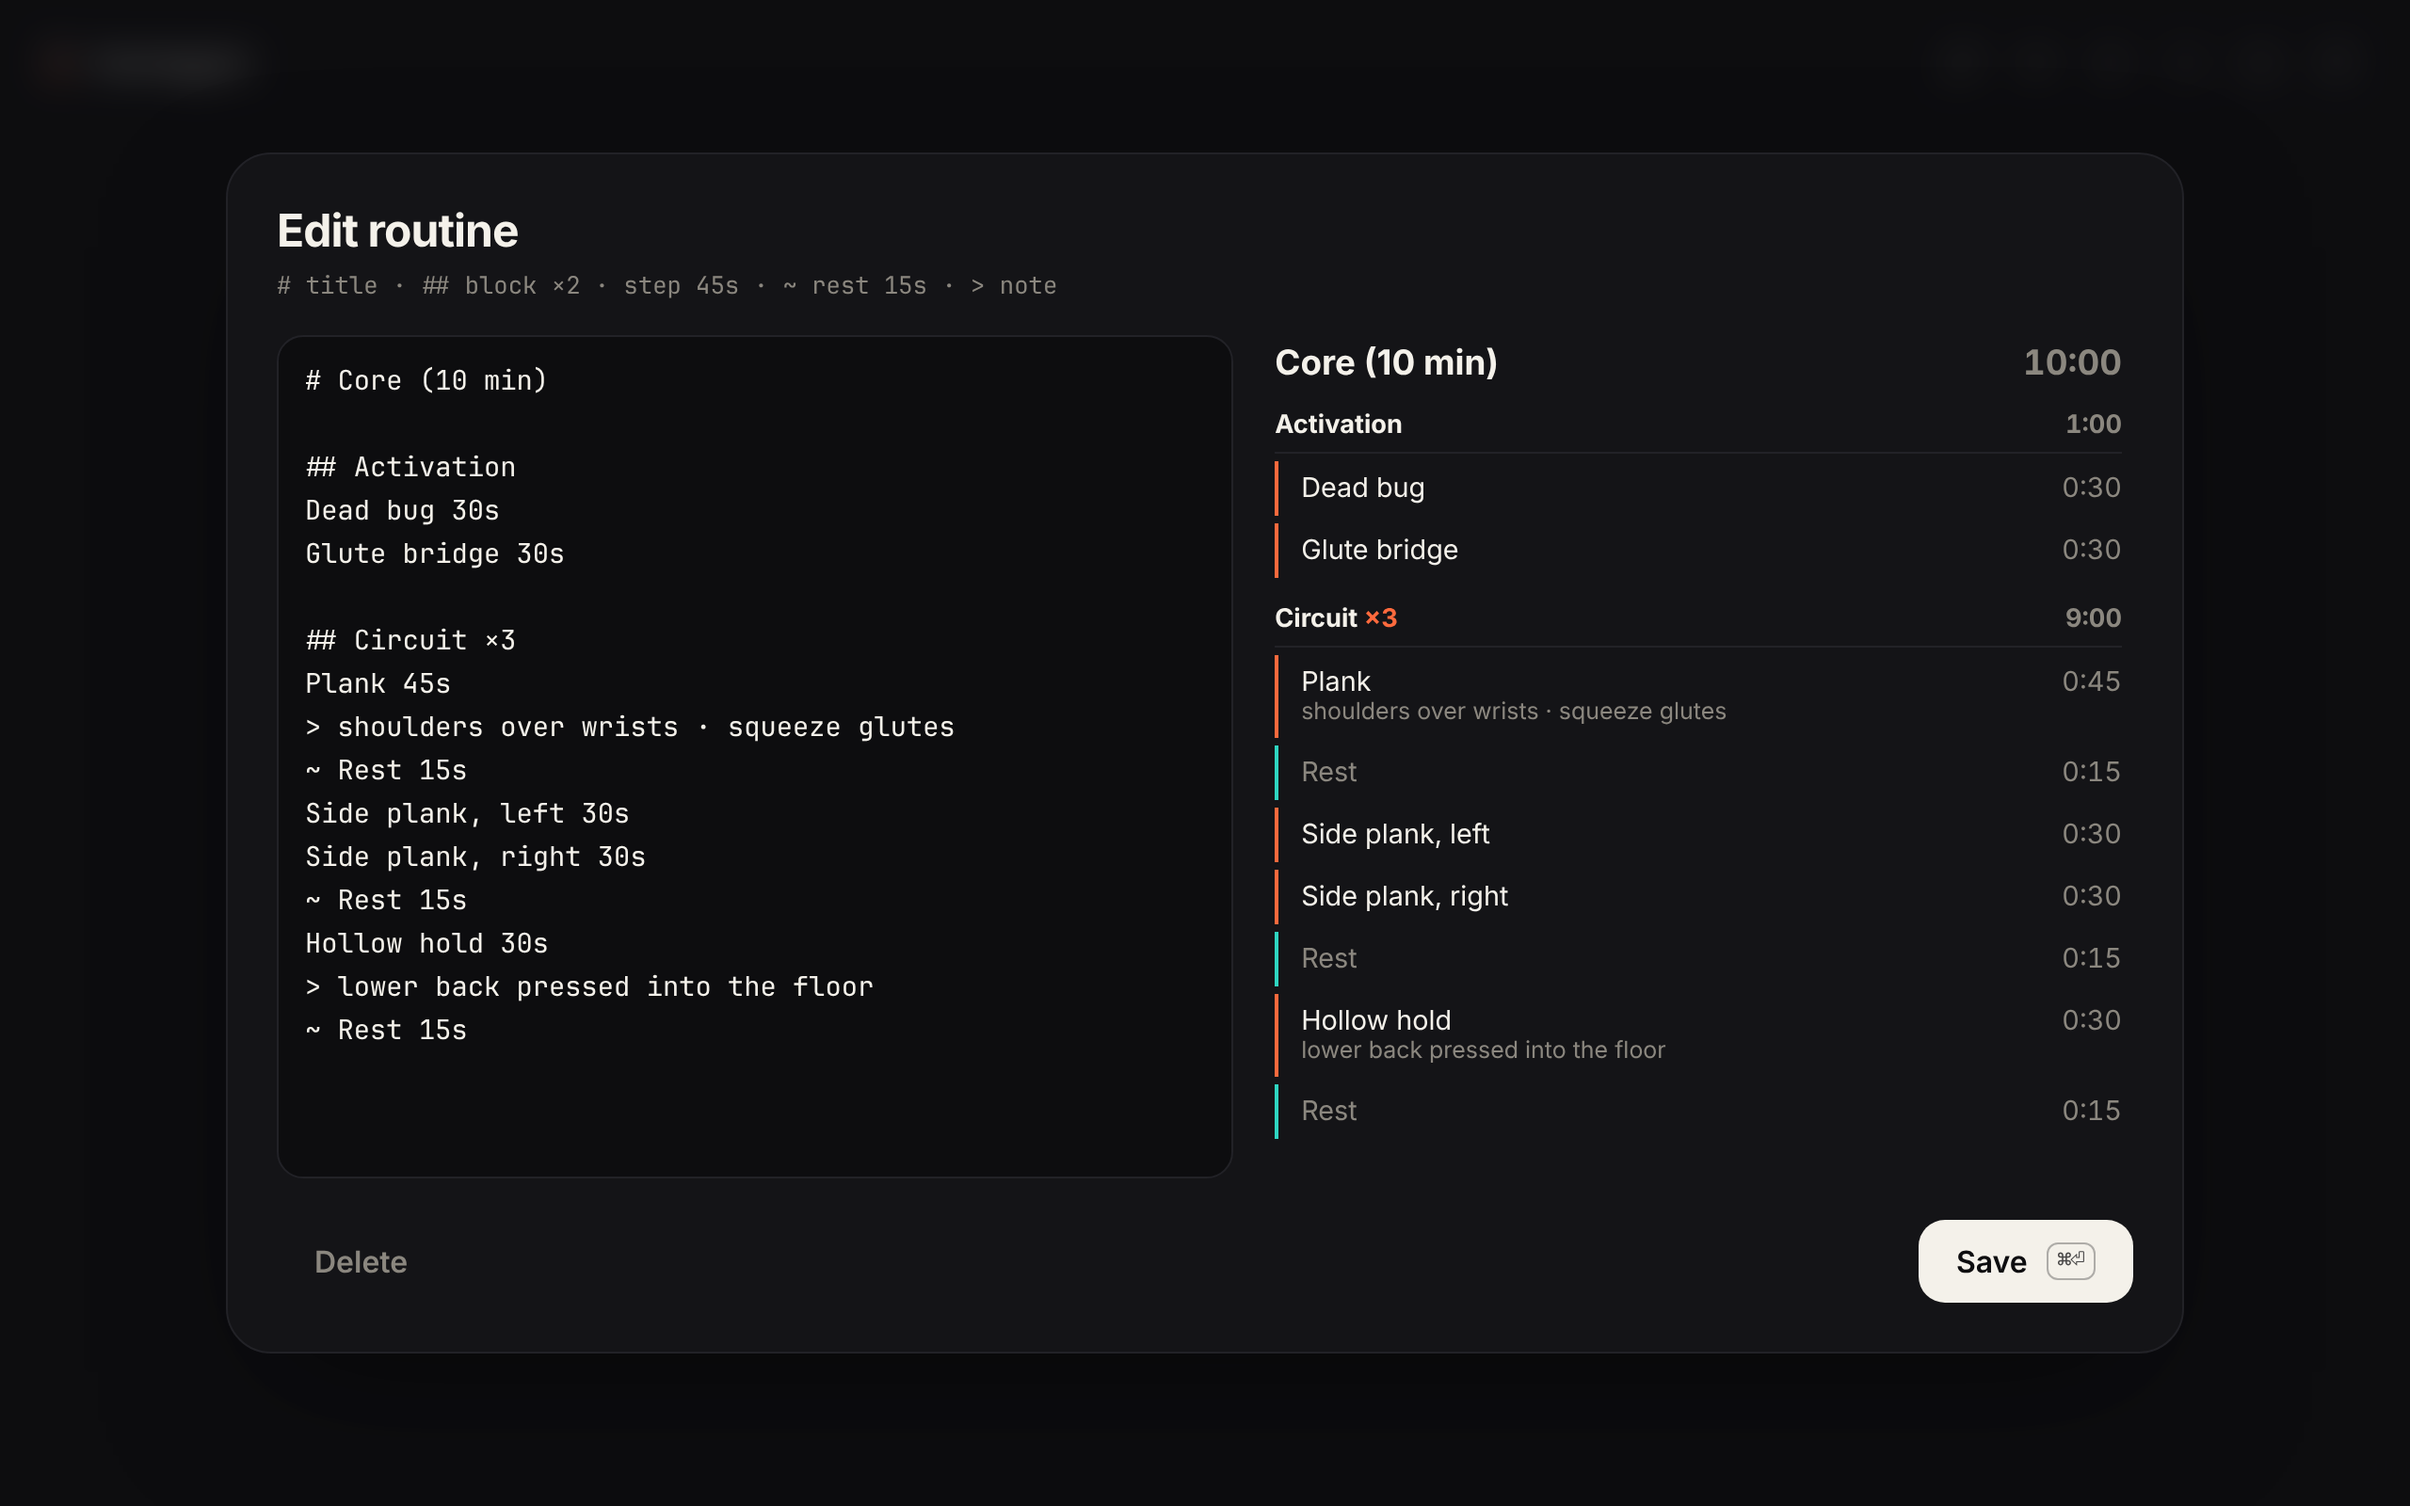
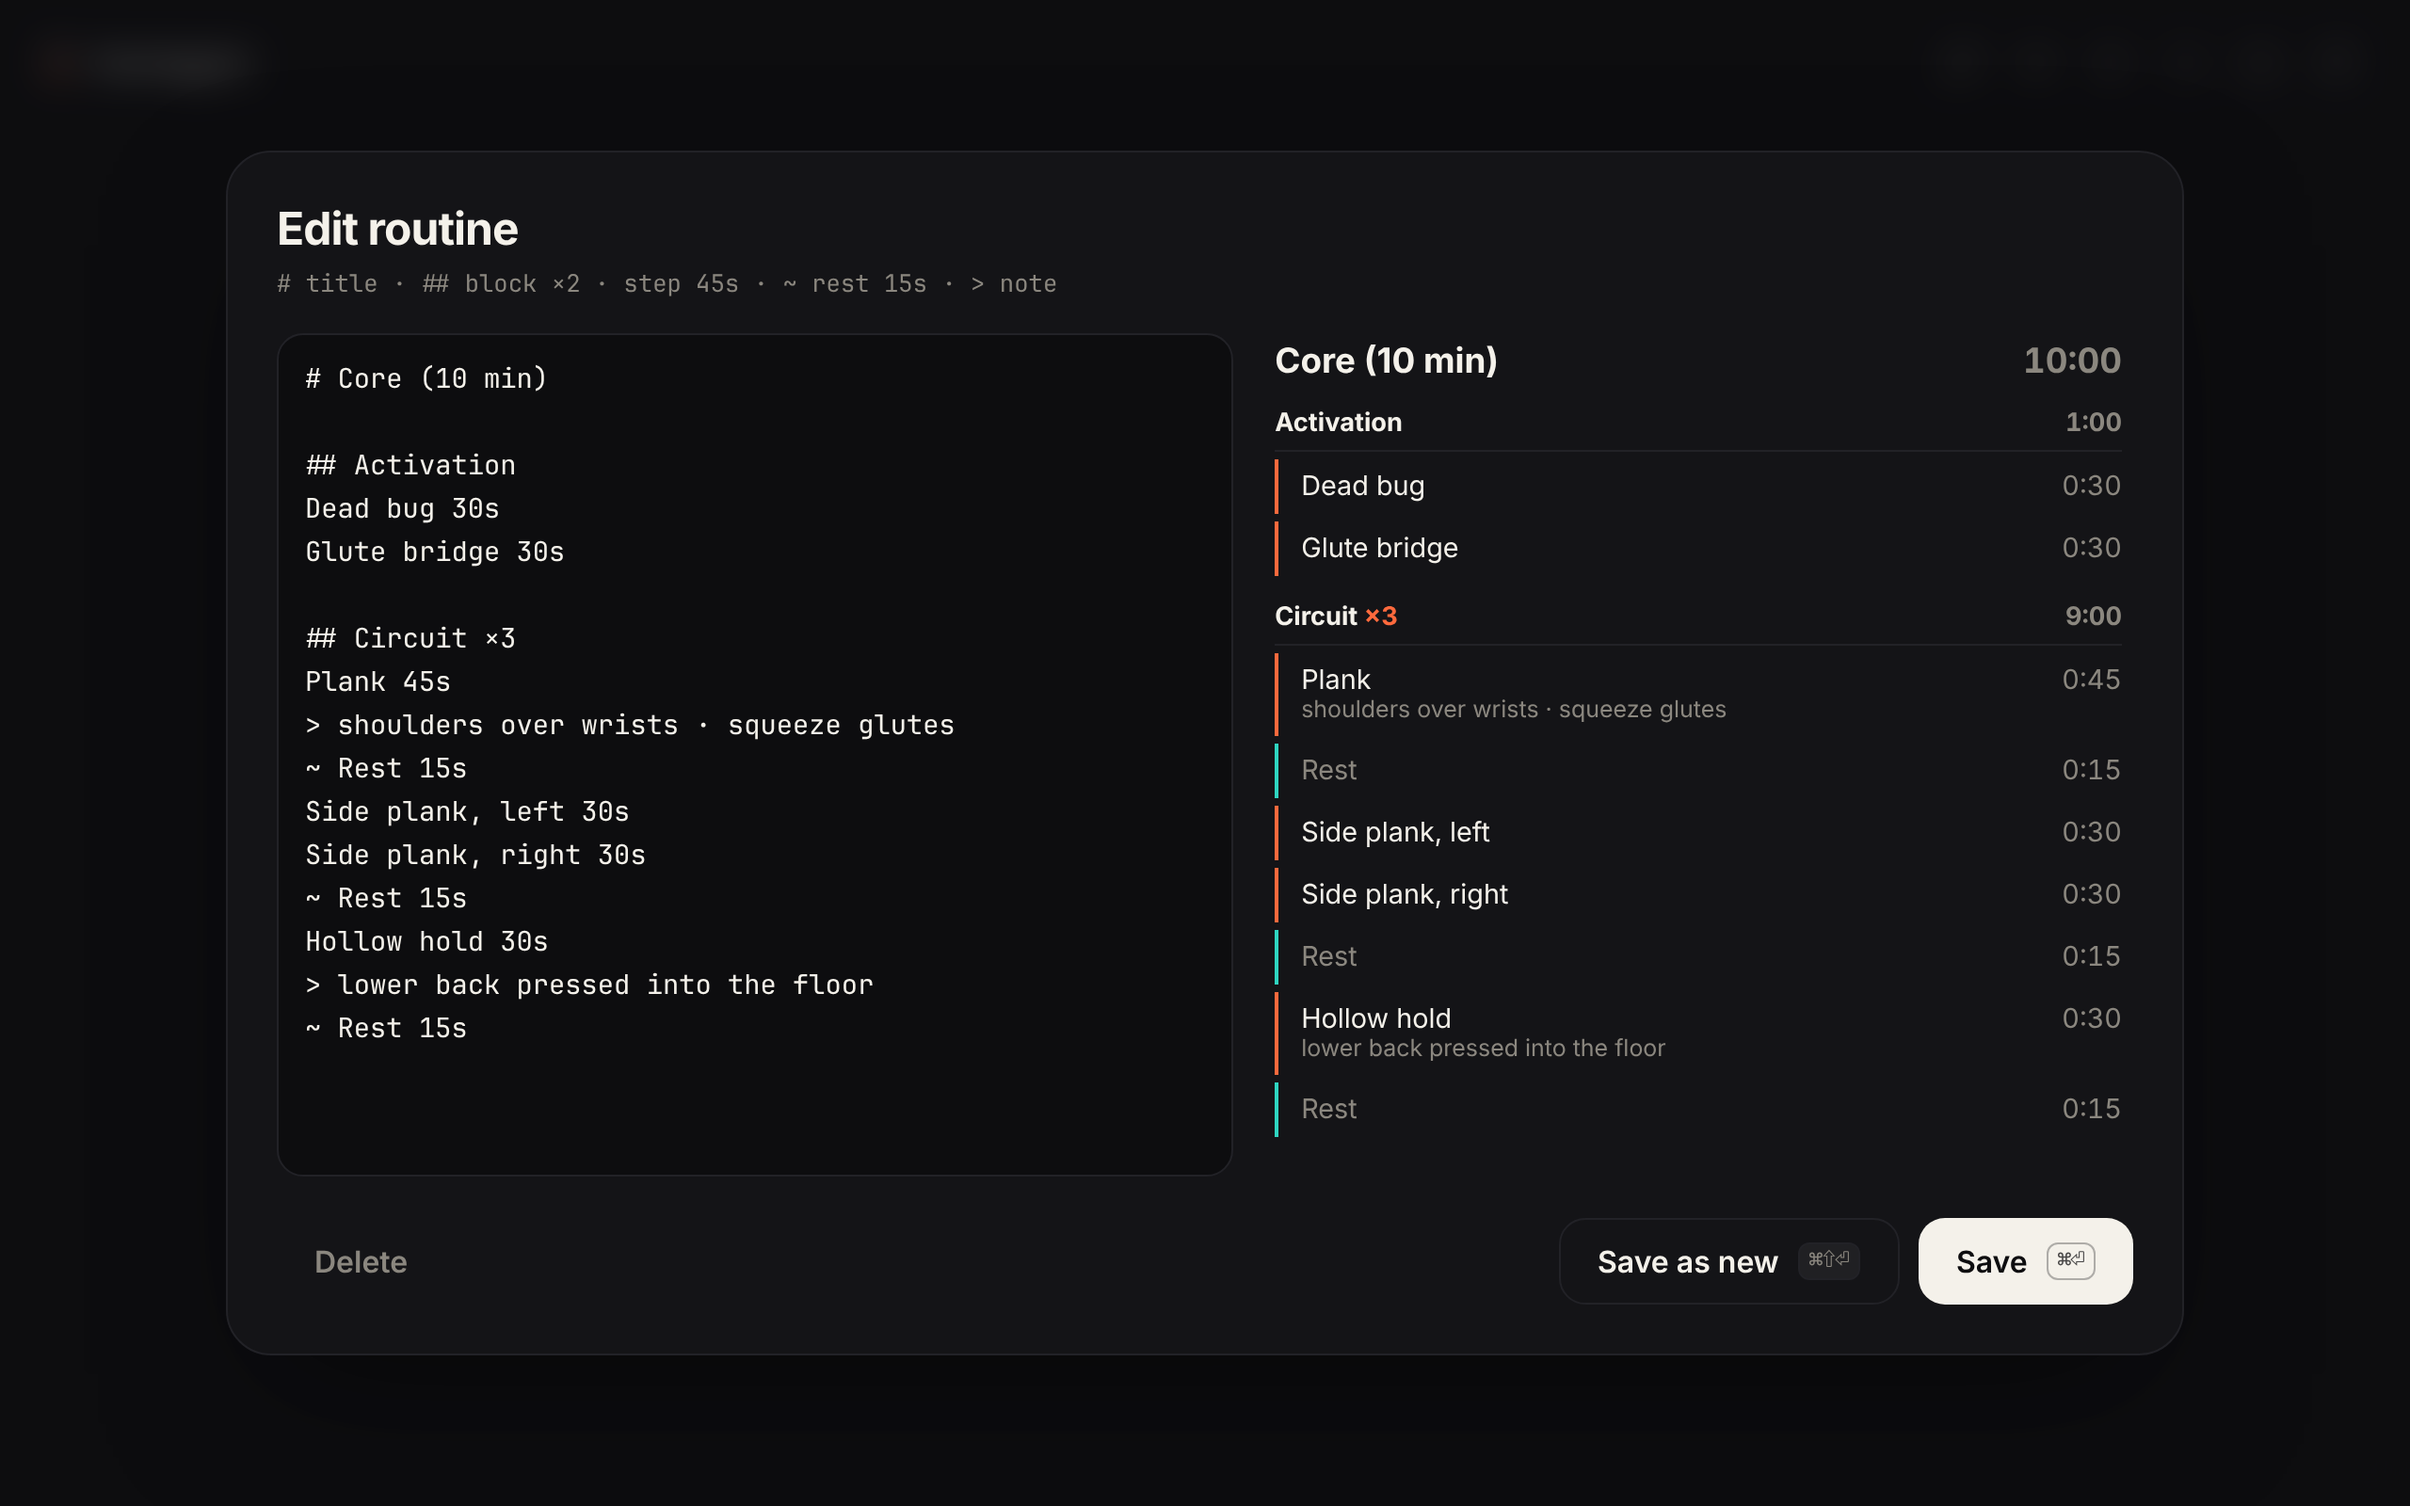
Add "Save as new" to the routine editor
Save an edited routine as a separate copy while leaving the original
untouched, so variations take seconds to create.

- Copies are named automatically ("title copy", "title copy 2", ...) unless
  the new title is already unique; matching ignores case and diacritics
- Routines without a title line get one added for the copy
- Shortcut ⌘⇧⏎, tooltip previews the copy's name, undo removes the copy
- Phone layout keeps both save buttons on one row

diff --git a/web/src/components/Editor.tsx b/web/src/components/Editor.tsx
@@ -1,7 +1,7 @@
 import { useMemo, useState, type KeyboardEvent } from 'react'
 import type { RoutineRecord } from '../api'
 import { clock } from '../format'
-import { parseRoutine, totalSeconds } from '../routine'
+import { parseRoutine, totalSeconds, uniqueTitle, withTitle } from '../routine'
 import { tip } from './Tooltips'
 
 const TEMPLATE = `# New routine
@@ -20,27 +20,38 @@ Squats 40s
 
 type Props = {
   record: RoutineRecord | null
+  titles: string[]
   onSave: (source: string) => Promise<void>
+  onSaveAsNew: (source: string) => Promise<void>
   onDelete: () => void
 }
 
-export function Editor({ record, onSave, onDelete }: Props) {
+export function Editor({ record, titles, onSave, onSaveAsNew, onDelete }: Props) {
   const initial = record?.source ?? TEMPLATE
   const [source, setSource] = useState(initial)
   const [busy, setBusy] = useState(false)
   const routine = useMemo(() => parseRoutine(source), [source])
   const total = totalSeconds(routine.steps)
 
+  const copyTitle = uniqueTitle(routine.title, titles)
+  const canSave = !busy && routine.steps.length > 0
+
   const save = async () => {
-    if (busy || !routine.steps.length) return
+    if (!canSave) return
     setBusy(true)
     await onSave(source).finally(() => setBusy(false))
+  }
+
+  const saveAsNew = async () => {
+    if (!canSave || !record) return
+    setBusy(true)
+    await onSaveAsNew(copyTitle === routine.title ? source : withTitle(source, copyTitle)).finally(() => setBusy(false))
   }
 
   const onKeyDown = (e: KeyboardEvent) => {
     if (e.key === 'Enter' && (e.metaKey || e.ctrlKey)) {
       e.preventDefault()
-      void save()
+      void (e.shiftKey && record ? saveAsNew() : save())
     } else if (e.key === 'Escape' && source !== initial && !confirm('Discard your changes?')) {
       e.preventDefault()
     }
@@ -92,7 +103,17 @@ export function Editor({ record, onSave, onDelete }: Props) {
             Delete
           </button>
         )}
-        <button className="btn primary" onClick={save} disabled={busy || !routine.steps.length} {...tip('Save routine', '⌘⏎')}>
+        {record && (
+          <button
+            className="btn secondary"
+            onClick={saveAsNew}
+            disabled={!canSave}
+            {...tip(`Save as a new routine “${copyTitle}”. The original stays as it was`, '⌘⇧⏎')}
+          >
+            Save as new <kbd>⌘⇧⏎</kbd>
+          </button>
+        )}
+        <button className="btn primary" onClick={save} disabled={!canSave} {...tip(record ? 'Save changes to this routine' : 'Save routine', '⌘⏎')}>
           Save <kbd>⌘⏎</kbd>
         </button>
       </footer>

diff --git a/web/src/routine.ts b/web/src/routine.ts
@@ -138,3 +138,20 @@ export function quickRoutine(text: string): Routine | null {
 
 /** Fold case and diacritics for forgiving search. */
 export const fold = (text: string) => text.normalize('NFD').replace(/\p{M}/gu, '').toLowerCase()
+
+/** Return `title` if free, otherwise the first free "title copy", "title copy 2", and so on. */
+export function uniqueTitle(title: string, taken: string[]): string {
+  const used = new Set(taken.map((t) => fold(t.trim())))
+  if (!used.has(fold(title.trim()))) return title
+  const base = title.trim().replace(/ copy(?: \d+)?$/i, '')
+  for (let n = 1; ; n++) {
+    const candidate = n === 1 ? `${base} copy` : `${base} copy ${n}`
+    if (!used.has(fold(candidate))) return candidate
+  }
+}
+
+/** Set the routine's `# title` line, adding one at the top when there is none. */
+export function withTitle(source: string, title: string): string {
+  const line = /^[ \t]*#(?!#).*$/m
+  return line.test(source) ? source.replace(line, () => `# ${title}`) : `# ${title}\n\n${source}`
+}

diff --git a/web/src/styles.css b/web/src/styles.css
@@ -223,6 +223,7 @@ kbd {
   }
 
   .exit kbd,
+  .btn kbd,
   .keys-only {
     display: none;
   }
@@ -853,6 +854,7 @@ kbd {
 
 .sheet-foot {
   display: flex;
+  flex-wrap: wrap;
   justify-content: flex-end;
   gap: 10px;
   margin-top: 22px;
@@ -887,6 +889,15 @@ kbd {
 .btn.ghost {
   color: var(--muted);
   margin-right: auto;
+}
+
+.btn.secondary {
+  border: 1px solid var(--line);
+}
+
+.btn.secondary:hover:not(:disabled) {
+  border-color: var(--muted);
+  background: color-mix(in oklab, var(--fg) 7%, transparent);
 }
 
 .btn.ghost:hover {
@@ -1741,6 +1752,24 @@ kbd {
 
   .sheet {
     padding: 20px;
+  }
+
+  .editor .sheet-foot:has(.secondary) {
+    display: grid;
+    grid-template-columns: 1fr 1fr;
+  }
+
+  .editor .sheet-foot:has(.secondary) .btn {
+    justify-content: center;
+    padding-inline: 10px;
+    white-space: nowrap;
+  }
+
+  .editor .sheet-foot:has(.secondary) .ghost {
+    grid-column: 1 / -1;
+    order: 1;
+    justify-self: center;
+    margin: 0;
   }
 
   .controls {

diff --git a/web/src/App.tsx b/web/src/App.tsx
@@ -264,6 +264,17 @@ export default function App() {
     }
   }
 
+  const saveRoutineAsNew = async (source: string) => {
+    try {
+      const saved = await api.createRoutine(source)
+      await loadRoutines()
+      setPanel(null)
+      notify(`Saved as “${parseRoutine(saved.source).title}”`, () => api.deleteRoutine(saved.id).then(loadRoutines))
+    } catch {
+      notify('Could not save the routine')
+    }
+  }
+
   const deleteRoutine = async (record: RoutineRecord) => {
     await api.deleteRoutine(record.id)
     await loadRoutines()
@@ -439,7 +450,9 @@ export default function App() {
         <Modal onClose={() => setPanel(null)} wide>
           <Editor
             record={panel.edit}
+            titles={routines.map((r) => r.title)}
             onSave={(source) => saveRoutine(panel.edit?.id ?? null, source)}
+            onSaveAsNew={saveRoutineAsNew}
             onDelete={() => panel.edit && void deleteRoutine(panel.edit)}
           />
         </Modal>

diff --git a/web/src/components/Help.tsx b/web/src/components/Help.tsx
@@ -13,6 +13,7 @@ const keys: [string, string][] = [
   ['[  ]', 'Previous · next track'],
   ['⌘V', 'Paste a YouTube link → music'],
   ['/', 'Focus the input'],
+  ['⌘⏎ · ⌘⇧⏎', 'Editor: save · save as new'],
 ]
 
 const quick: [string, string][] = [

diff --git a/README.md b/README.md
@@ -69,6 +69,7 @@ Open [http://localhost:4321](http://localhost:4321). Set `HOMEGYM_PORT` to use a
 | `S` · `V` | Sound · voice |
 | `M` · `[` · `]` | Music: play/pause, previous, next |
 | `H` · `?` | History · all shortcuts |
+| `⌘⏎` · `⌘⇧⏎` | In the editor: save · save as a new routine |
 
 Quick timers are logged automatically. Routines end with a short finish sheet. Anything you delete can be undone for a few seconds.
 
@@ -101,6 +102,8 @@ Hollow hold 30s
 | `Exercise` | No duration: runs until you press `→` |
 
 The [`examples/`](examples) folder has ready-made routines for strength, HIIT, mobility, breathing and focused work. Copy one into **+ Routine** and adjust it.
+
+To make a variation of a routine, open it, change what you need and press **Save as new** (`⌘⇧⏎`). The original stays as it was, and the copy is named for you ("Full body (20 min) copy") unless you give it a new title.
 
 ## Music
 
